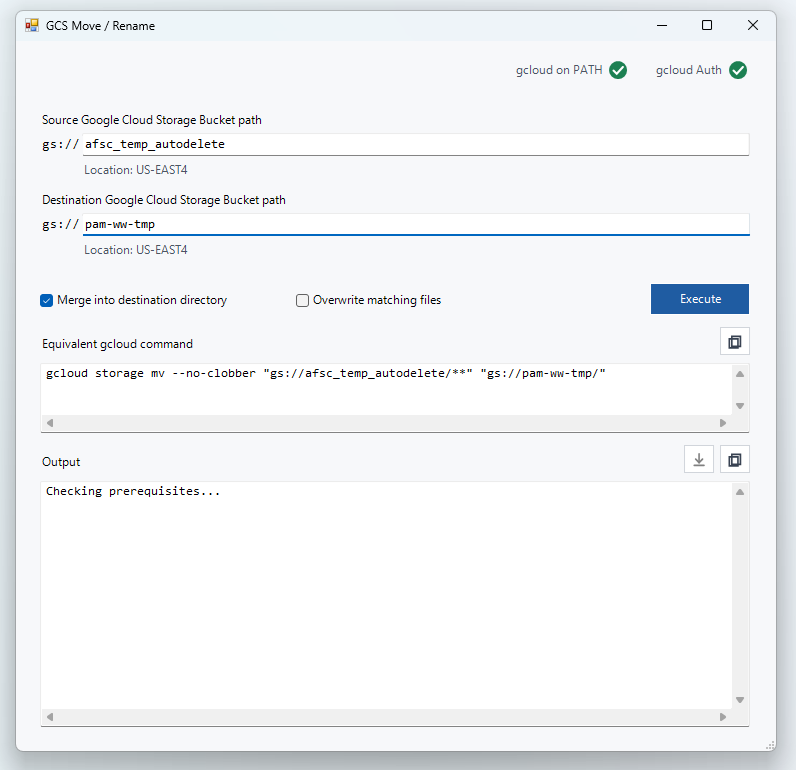
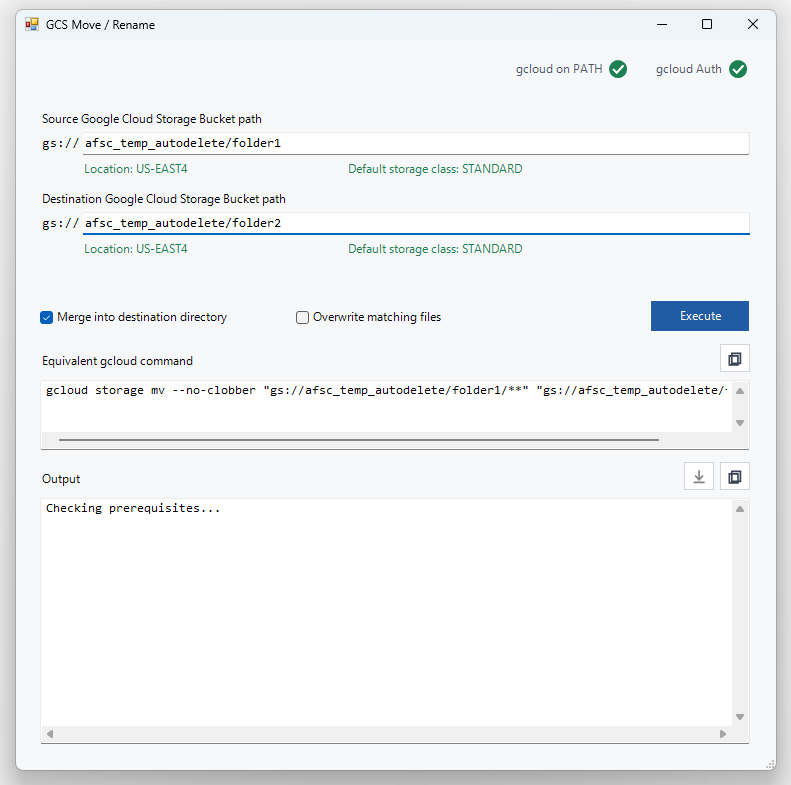
add feature for storage class assessment and hybridize warning. update readme and app screenshots

diff --git a/README.md b/README.md
@@ -14,7 +14,7 @@ However, the gcloud CLI can be user unfriendly, and even for experienced users t
 
 This application serves to leverage the powerful server side operations for GCS in a user-friendly and consistent local interface. 
 
-![Screenshot of Alpha3 release of GCS Move/Rename tool](doc/images/app_screenshot.png)
+![Screenshot of latest release of GCS Move/Rename tool](doc/images/app_screenshot.png)
 
 ## How to use
 
@@ -23,6 +23,14 @@ Download the .exe for the tool from the latest release, using the link at the to
 The application will automatically check for needed dependencies, which are often already configured on systems of users that have used Google Cloud Platform before. If they are not found, hover over the ❌ and the application hover will tell you how to resolve the issue. 
 
 ![Missing dependency notice](doc/images/app_screenshot_dep_not_met.png)
+
+## Features
+
+In addition to streamlining GCS move/rename events, the app will also provide some visibility and warning of cost considerations around egress and access fees. While the cost model of GCS is nuanced, this provides some quick feedback for users who may not casually understand higher cost implications for some types of moves. 
+
+![Cost warning for egress](doc/images/app_screenshot2.png)
+
+![Cost warning for egress and archival source bucket class](doc/images/app_screenshot3.png)
 
 ## Dependencies and other Prerequisites
 